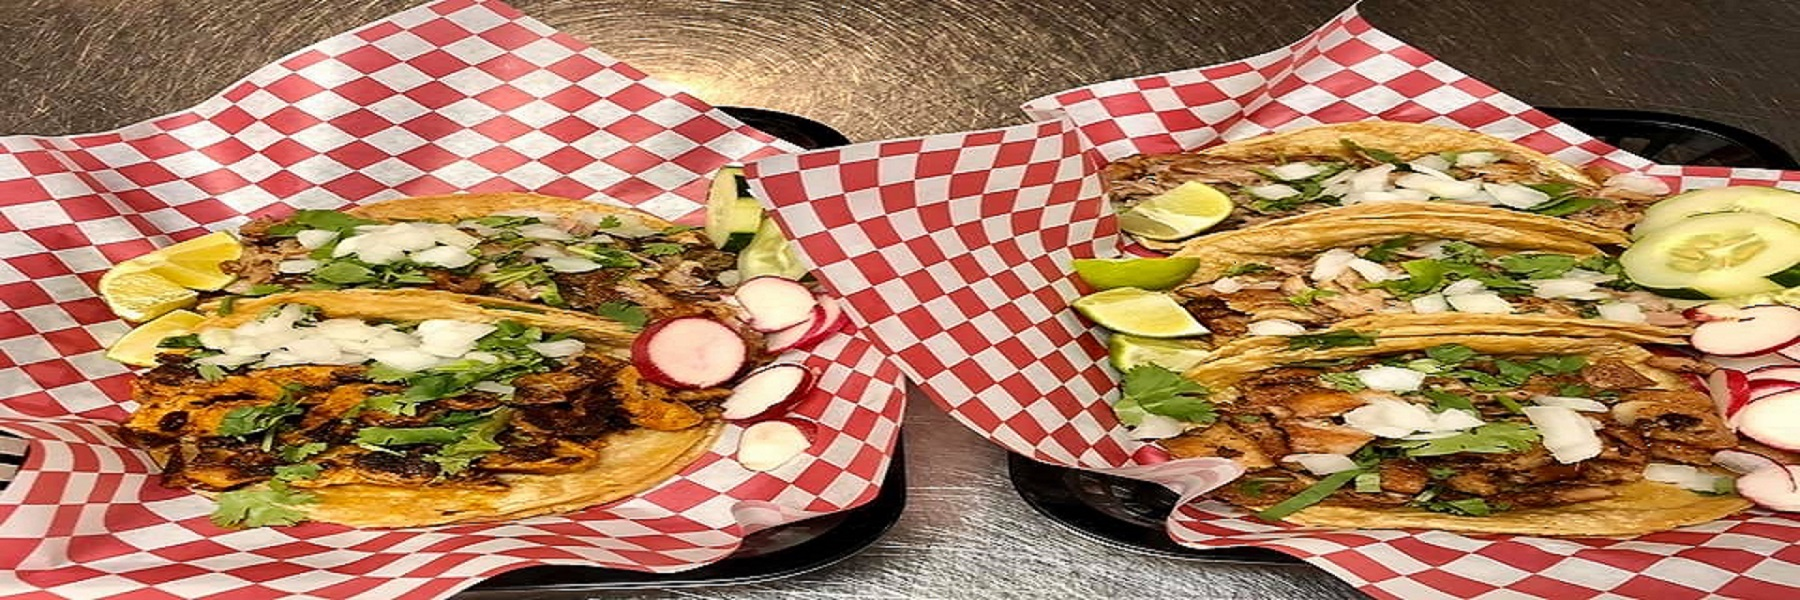
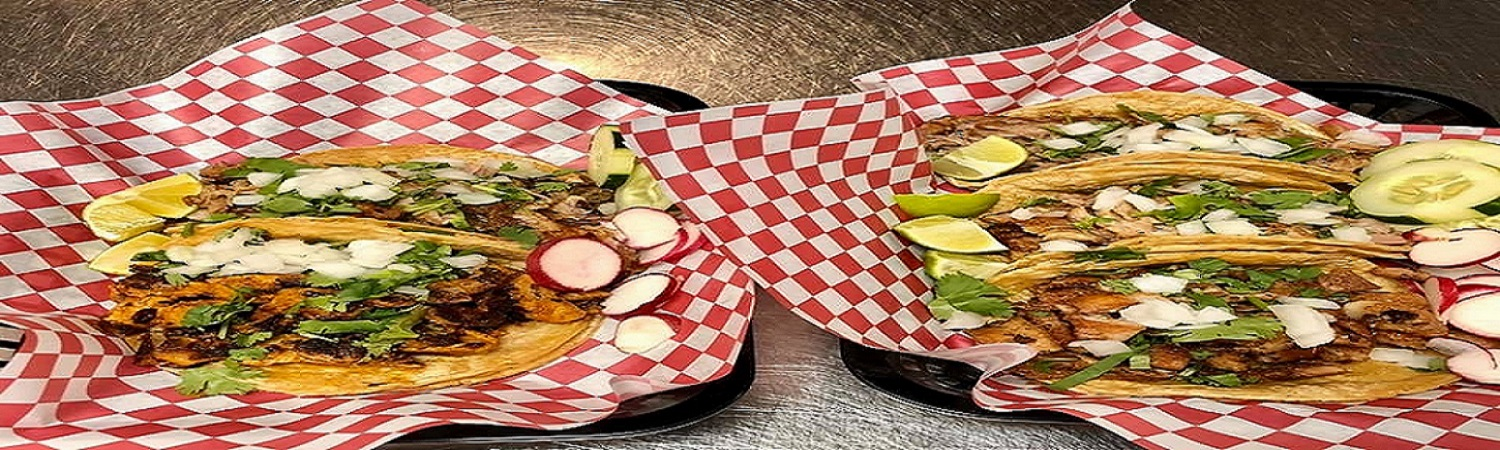
fixed font on menu page and changed the picture on the home page

diff --git a/menu.html b/menu.html
@@ -2,6 +2,7 @@
 <html lang="en">
 
 <head>
+
   <meta charset="utf-8">
   <meta name="viewport" content="width=device-width, initial-scale=1">
   <meta name="keywords" content="Bootstrap, lesson">
@@ -12,8 +13,11 @@
   <link rel="stylesheet" href="https://cdnjs.cloudflare.com/ajax/libs/font-awesome/4.7.0/css/font-awesome.min.css">
   <script src="https://ajax.googleapis.com/ajax/libs/jquery/3.2.1/jquery.min.js"></script>
   <script src="https://maxcdn.bootstrapcdn.com/bootstrap/3.3.7/js/bootstrap.min.js"></script>
-  <link rel="stylesheet" href="styles.css">
 
+<style>
+@import url('https://fonts.googleapis.com/css?family=Bebas+Neue&display=swap');
+</style>
+  <link rel="stylesheet" href="styles.css">
 </head>
 
 <body>
@@ -782,7 +786,7 @@
       			<p>
       				XL tortilla stuffed with your choice of meat, baja veggies, rice, lettuce, cheese, tomato and your choice of salsa (guacamole or chipotle).
       			</p>
-            <img src=" ">
+            
             <div>
               $9.99
             </div>

diff --git a/index.html b/index.html
@@ -15,7 +15,6 @@
   <link rel="stylesheet" href="styles.css">
 
 </head>
-
 <body>
   <nav class="navbar navbar-inverse">
     <div class="container-fluid">
@@ -37,23 +36,8 @@
         </ul>
       </div>
   </nav>
-
-
-        <img class="me"src="img/truckppl.jpg">
-
-
-          <br>
-
-        </div>
-      </div>
-
-
-
-          </footer>
-
-
-
+  
+      <img src="img/alpastor.jpg">
 
     </body>
-
     </html>

diff --git a/styles.css b/styles.css
@@ -108,7 +108,7 @@ width: 500px;
 }
 /*styles for menu page*/
 h1 {
-  font-family: 'Suez One', serif;
+  font-family: 'Bebas Neue', cursive;
   font-size: 85px;
   text-decoration: underline;
   text-transform: capitalize;
